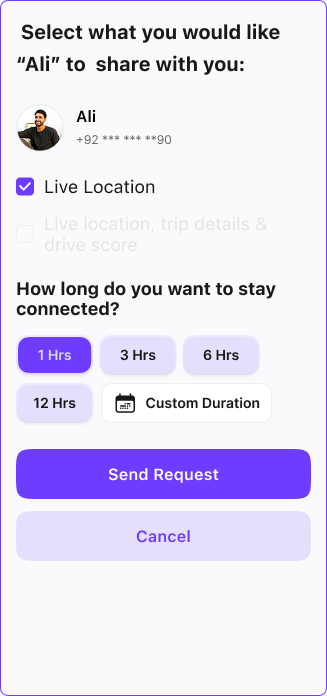
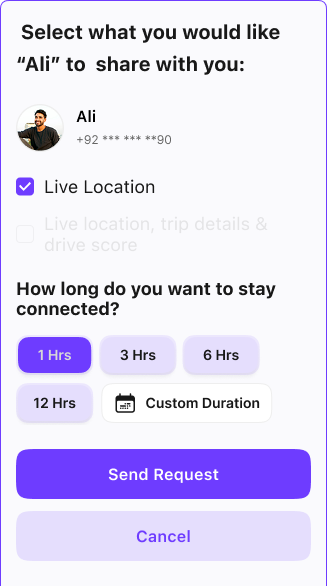
deployment done

diff --git a/src/components/demo/screens/PopupScreenImage.jsx b/src/components/demo/screens/PopupScreenImage.jsx
@@ -1,7 +1,7 @@
 import { useState } from 'react';
 import LoadingSpinner from '../LoadingSpinner';
 
-function PopupScreenImage({ bgSrc, popupSrc, children, position = 'bottom', popupPadding = '0px' }) {
+function PopupScreenImage({ bgSrc, popupSrc, children, position = 'bottom', popupPadding = '0px', popupRadius }) {
   const [bgLoaded, setBgLoaded] = useState(false);
   const [popupLoaded, setPopupLoaded] = useState(false);
 
@@ -47,7 +47,7 @@ function PopupScreenImage({ bgSrc, popupSrc, children, position = 'bottom', popu
           <img
             src={popupSrc}
             alt="Popup"
-            style={{ width: '100%', display: 'block' }}
+            style={{ width: '100%', display: 'block', ...(popupRadius && { borderRadius: popupRadius }) }}
             onLoad={() => setPopupLoaded(true)}
           />
           {isLoaded && children}

diff --git a/src/components/demo/screens/flow7Screen7Image.jsx b/src/components/demo/screens/flow7Screen7Image.jsx
@@ -5,11 +5,11 @@ import baseStyles from './BaseScreenImage.module.css';
 
 function flow7Screen7Image({ onNext }) {
   return (
-    <PopupScreenImage bgSrc={flow7screen3Img} popupSrc={flow7popup2Img} position="center" popupPadding="16px">
+    <PopupScreenImage bgSrc={flow7screen3Img} popupSrc={flow7popup2Img} position="center" popupPadding="16px" popupRadius="10px">
       <button
         type="button"
         className={baseStyles.hotspotBase}
-        style={{ top: '64%', left: '4.8%', width: '90.7%', height: '7.7%', borderRadius: '8px', zIndex: 20 }}
+        style={{ top: '76%', left: '3.8%', width: '92.1%', height: '10%', borderRadius: '8px', zIndex: 20 }}
         onClick={onNext}
       />
     </PopupScreenImage>

diff --git a/src/components/demo/screens/flows/connectionsFlow.jsx b/src/components/demo/screens/flows/connectionsFlow.jsx
@@ -29,9 +29,9 @@ export const connectionsScreens = [
     title: 'Connections',
     instruction: (
       <>
-        <p>Once selected, a confirmation screen will appear.</p>
+        <p>A new screen has appeared where you can search for people to connect with.</p>
         <br />
-        <p>Choose what information you'd like this person to share with you, then tap <strong>Send Request</strong> to send your connection request.</p>
+        <p>Use the search bar to find existing Genix Drive users, or browse your phone contacts to invite people who haven't joined yet.</p>
       </>
     ),
     EmulatorContent: flow7Screen2Img,
